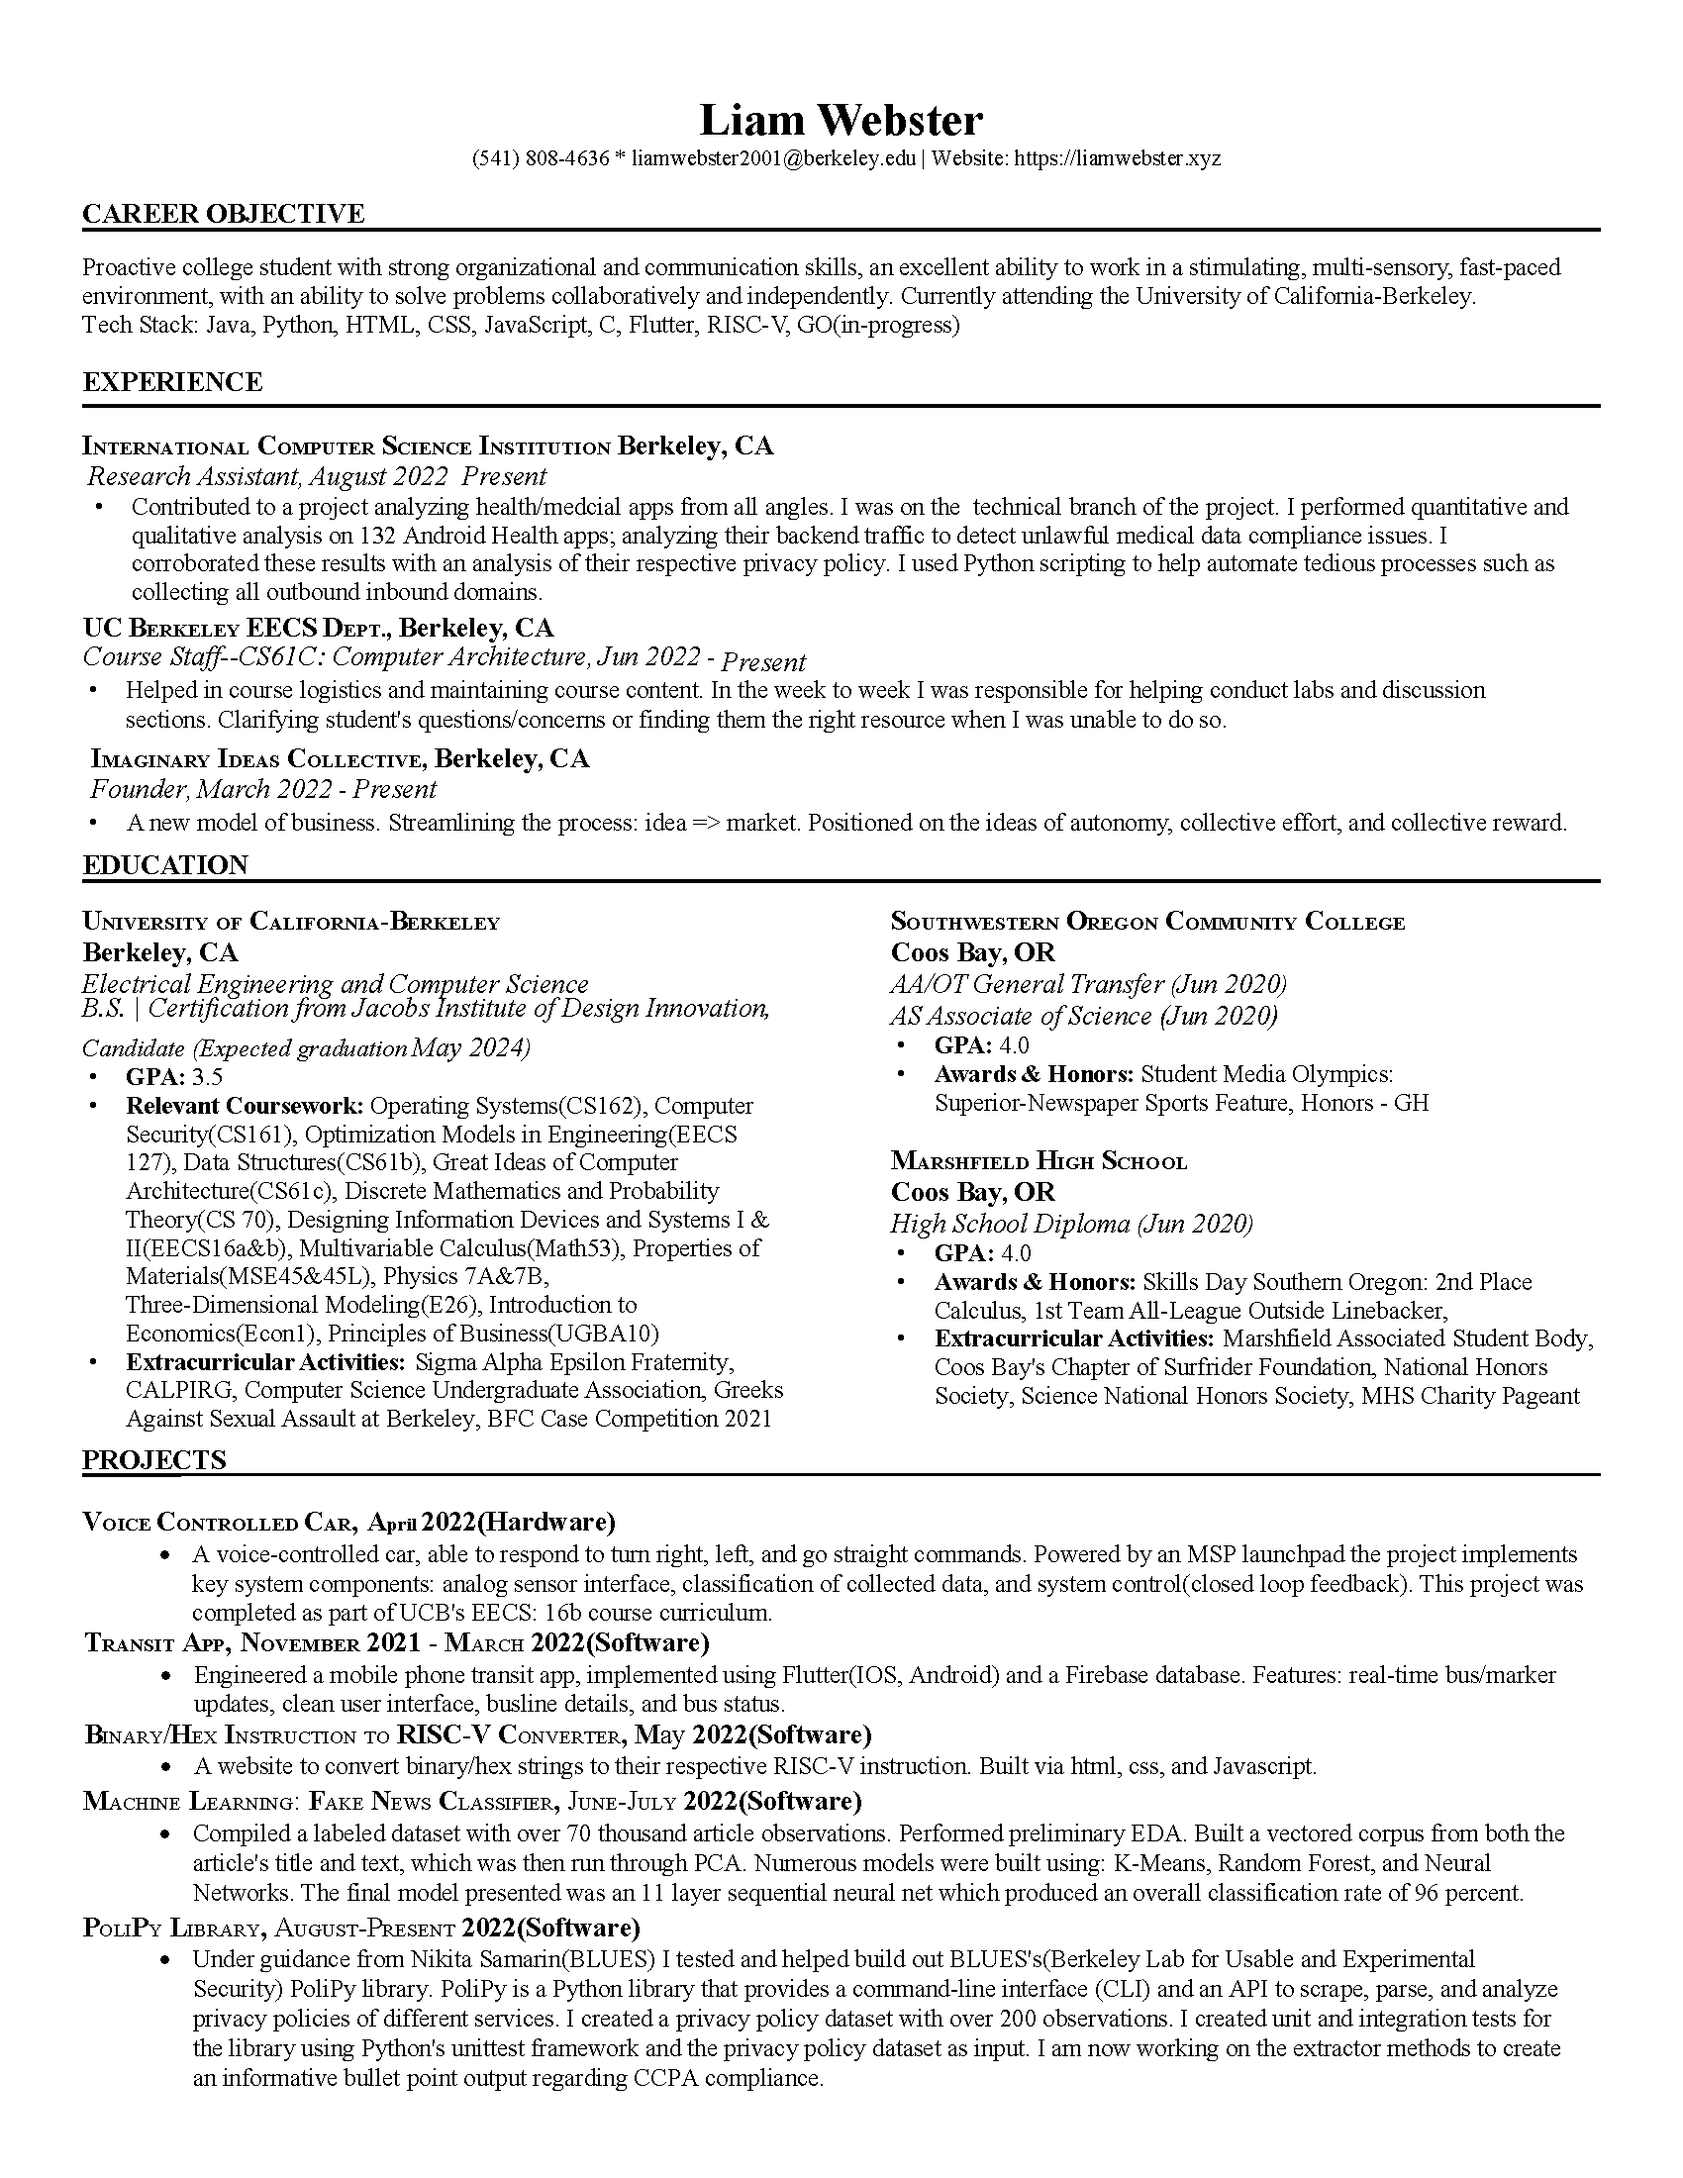
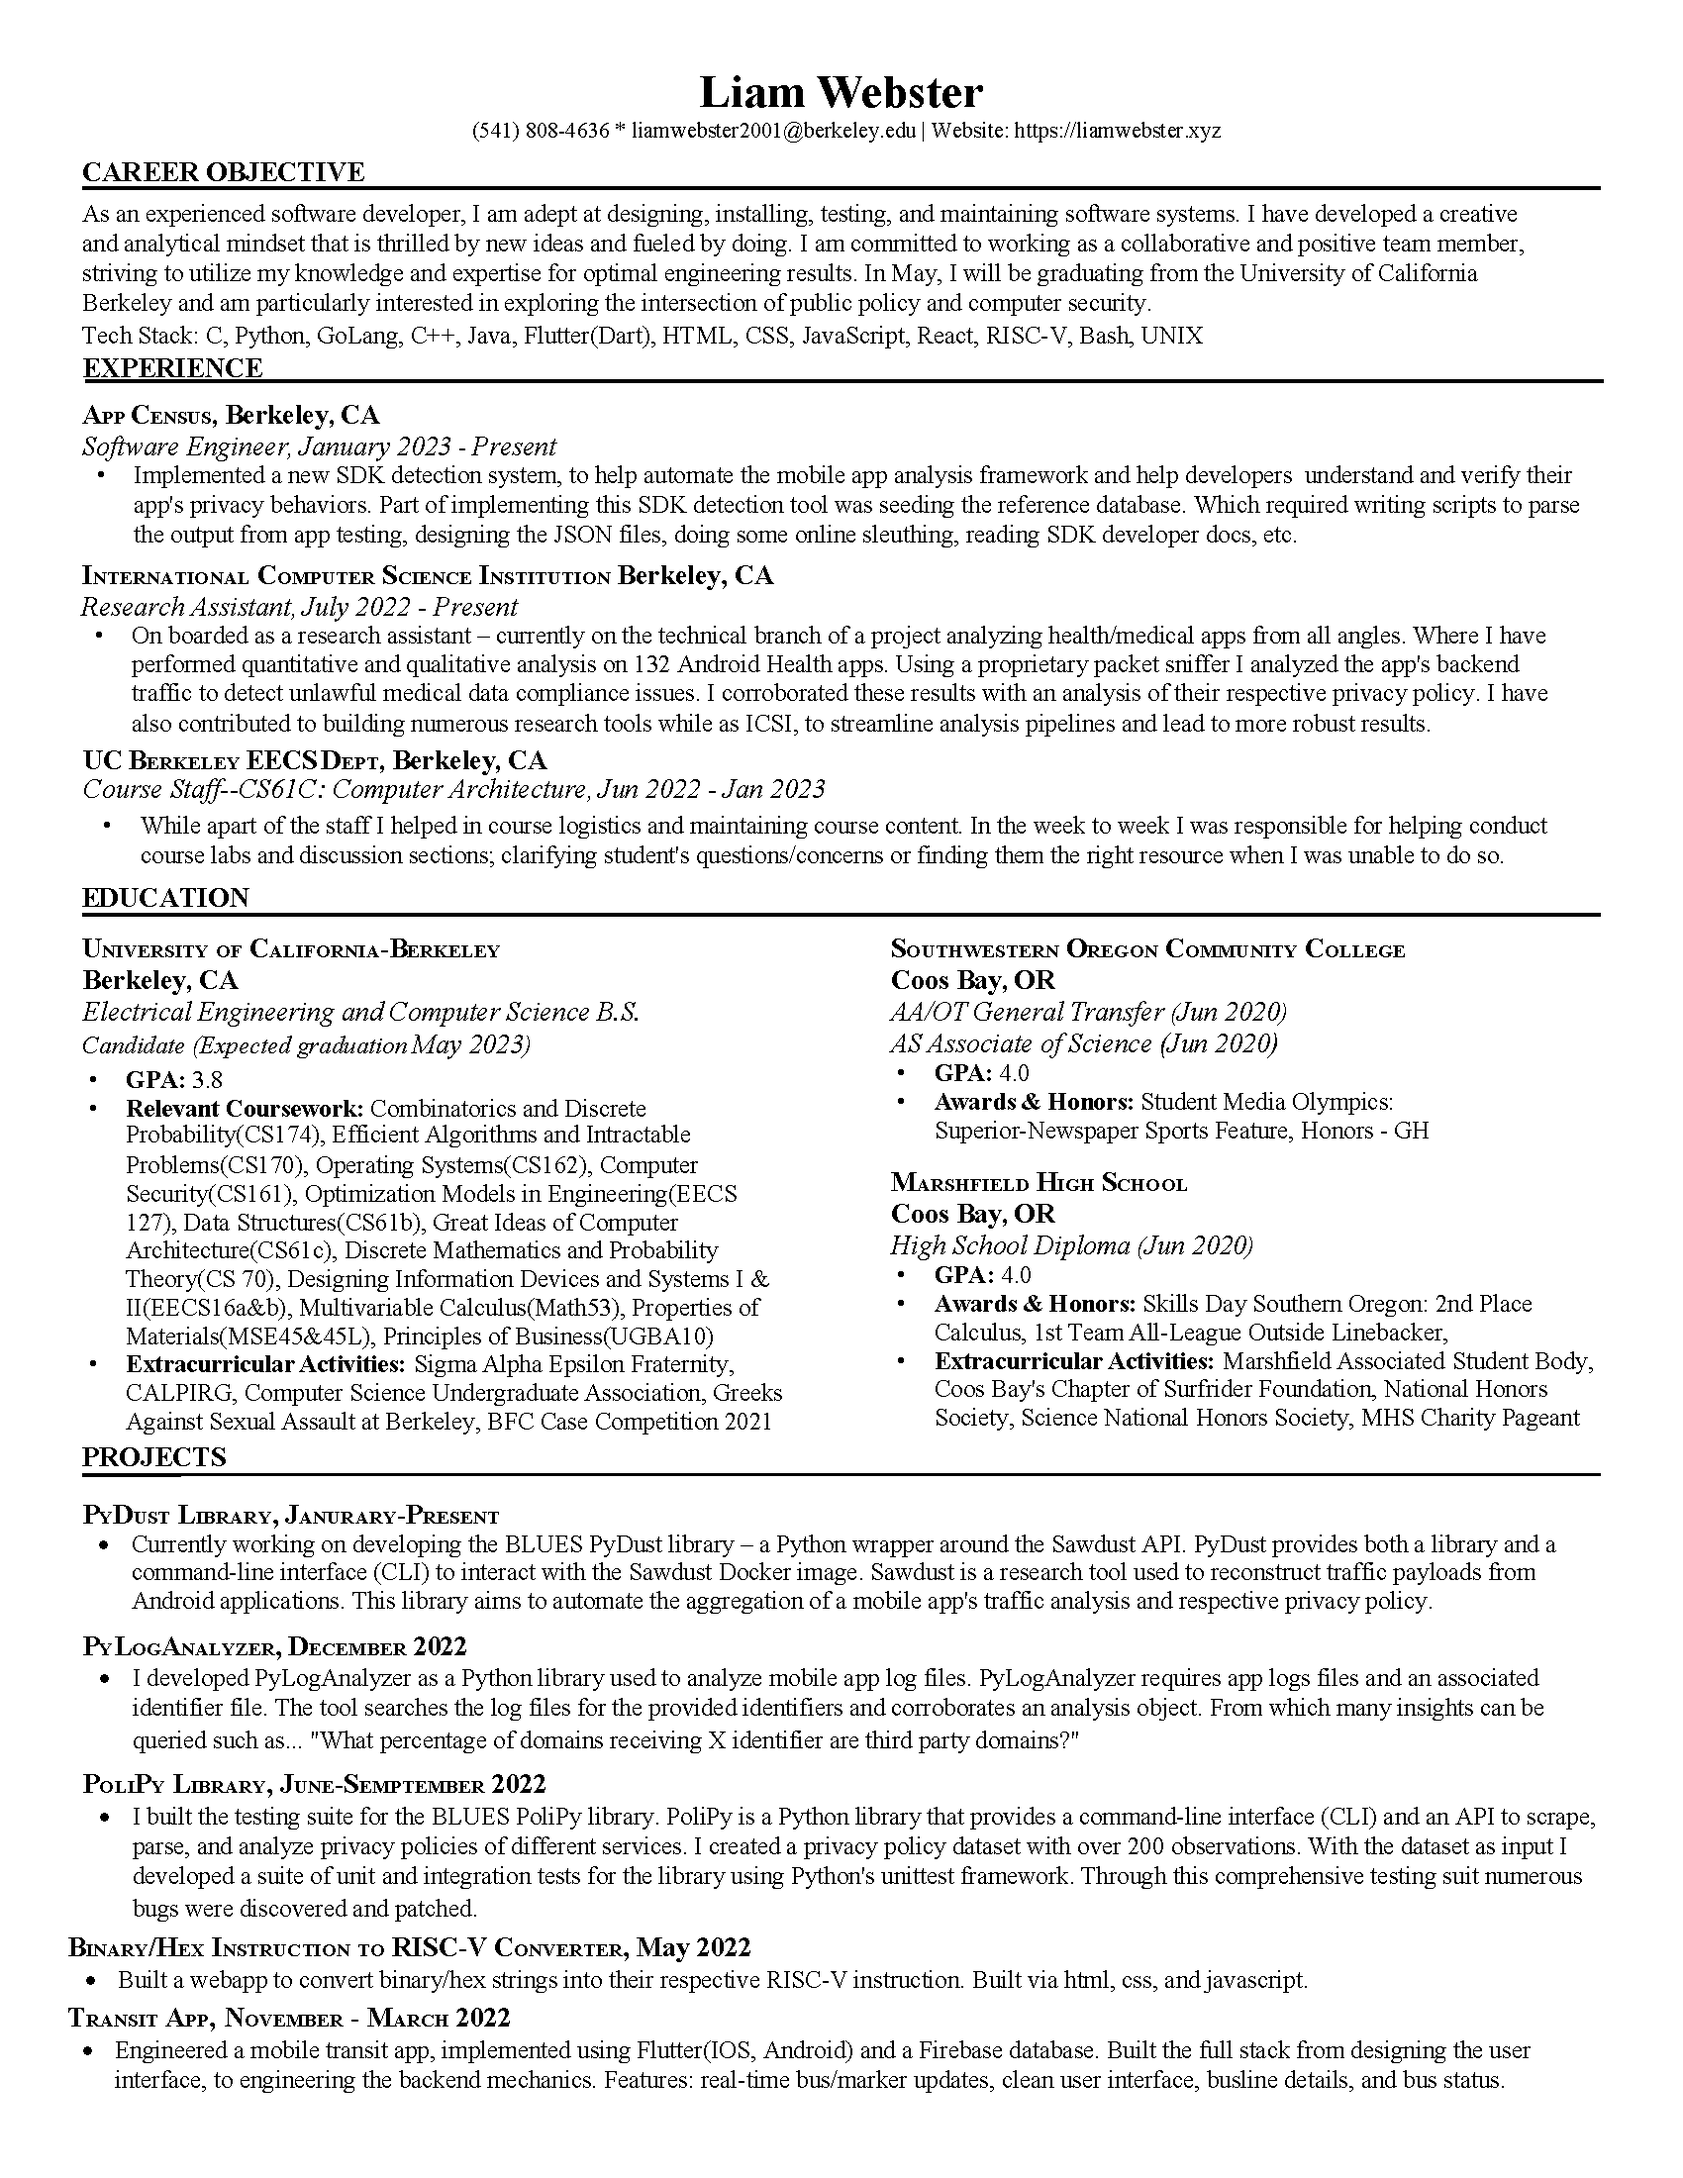
resume update

Changed region(s): [[0.0312, 0.0309, 0.9353, 0.9582]]

diff --git a/index.html b/index.html
@@ -47,7 +47,7 @@
 							<article id="intro">
 								<h2 class="major">Intro</h2>
 								<span class="image main"><img src="images/pic01.jpeg" alt="" /></span>
-								<p>Hi, my name is Liam Webster. I am a proactive college student with excellent organizational and communication skills. A strong ability to work in a stimulating, multi-sensory, fast-paced environment, with an ability to solve problems collaboratively and independently. Currently attending the University of California-Berkeley studying Electrical Engineering and Computer Science. Current pursuits entail machine learning and decentralized computer security.</p>
+								<p>Hi, my name is Liam Webster. I am an experienced software developer – adept at designing, installing, testing, and maintaining software systems. I have developed a creative and analytical mindset that is thrilled by new ideas and fueled by doing. I am committed to working as a collaborative and positive team member, striving to utilize my knowledge and expertise for optimal engineering results. In May, I will be graduating from the University of California Berkeley and am particularly interested in exploring the intersection of public policy and computer security.</p>
 								<p>A little bit more about me. I am from a small town on the Oregon Coast. I’m a young hearted excited individual. I received my high school diploma from Marshfield High School. During that time I also attended Southwestern Oregon Community College and received my Associates of Arts and Associates of Sciences graduating with honors. I am now attending UC Berkeley currently studying Electrical Engineering and Computer Science; with aims to earn certification from the Jacobs Institute of Design in Innovative Design. I enjoy thinking, learning and bringing ideas to life. I am a hobby junky-- some of which include: surfing, backpacking, fly-fishing, coding, and automotive tinkering. I love projects and working with people-- reach out if your looking for an extra set of hands. Thanks for the time. </p>
 							</article>
 
@@ -56,29 +56,42 @@
 								<h2 class="major">Projects</h2>
 								<h3 class="major">Software:</h3>
 								<span class="image main"><img src="images/code2.jpg" alt="" /></span>
-								<p>Version Control System:
-									<br>Date: April 2021
-									<br>Description: Implemented a version control system via Java. Based on Git, with features such as add, commit, branch, checkout, and log all functional.</p>
-								<p>Project Automation:
-									<br>Date: July 2021
-									<br>Description: Engineered a "new project" automation script. Ran from the command line; the script automates the creation of a project. Creating a directory in my local projects folder, creating a README.md, creating a GitHub repository, and pushing an initial commit.</p>
-								<p>Account Manager:
-									<br>Date: May 2021
-									<br>Description: Engineered a password managing solution; using a local PostgreSQL database and a Python user interface. Features: username|email|password|misc categorical storage, and a fully original encryption algorithm based on RSA.</p>
-								<p>Transit App:
-									<br>Date: October 2021
-									<br>Description: Engineered a mobile phone transit app, implemented using flutter(IOS, Android) and a Firebase database. Features: real-time bus/marker updates, clean user interface, busline details, and bus status.
-									<br><a href="https://express.adobe.com/page/hTTb4ddk23nt4/" target="_blank">View Project</a>
+								<p>PyDust Library:
+									<br>Date: Present
+									<br>Description: Currently working on developing the BLUES PyDust library - a Python wrapper around the Sawdust API. PyDust provides both a library and a command-line interface (CLI) to interact with the Sawdust Docker image. Sawdust is a research tool used to reconstruct traffic payloads from Android applications. This library aims to automate the aggregation of a mobile app's traffic analysis and respective privacy policy.
+								</p>
+								<p>PyLogAnalyzer:
+									<br> Date: December 2022
+									<br>Description: I developed PyLogAnalyzer as a Python library used to analyze mobile app log files. PyLogAnalyzer requires app logs files and an associated identifier file. The tool searches the log files for the provided identifiers and corroborates an analysis object. From which many insights can be queried such as... "What percentage of domains receiving X identifier are third party domains?"
+									<br><a href="https://github.com/liamwebsterxyz/PyLogAnalyze" target="_blank">View Project</a>
+								</p>
+								<p>PoliPY:
+									<br>Date: June-September 2022
+									<br>Description: I built the testing suite for the BLUES PoliPy library. PoliPy is a Python library that provides a command-line interface (CLI) and an API to scrape, parse, and analyze privacy policies of different services. I created a privacy policy dataset with over 200 observations. With the dataset as input I developed a suite of unit and integration tests for the library using Python's unittest framework. Through this comprehensive testing suit numerous bugs were discovered and patched.
+									<br><a href="https://github.com/blues-lab/polipy" target="_blank">View Project</a>
+								</p>
+								<p>Fake vs Reals News Application:
+									<br>Date: July 2022
+									<br>Description: Compiled a labeled dataset with over 70 thousand article observations. Performed preliminary EDA. Built a vectored corpus from both the article's title and text, which was then run through PCA. Numerous models were built using: K-Means, Random Forests, and Neural Networks. The final model presented was an 11 layer sequential neural net which produced an overall classification rate of 96 percent.
+									<br><a href="https://express.adobe.com/page/hbMXK4IUUn4Bd/" target="_blank">View Project</a>
 								</p>
 								<p>RISC-V Instruction to Binary/Hexadecimal Instruction:
 									<br>Date: Feburary 2022
 									<br>Description: Website for converting binary/hex instruction into RISC-V instruction. Implemented via html, css, and Javascript.
 									<br><a href="https://express.adobe.com/page/Y2AmGkvrFcz2l/" target="_blank">View Project</a>
 								</p>
-								<p>Fake vs Reals News Application:
-									<br>Date: July 2022
-									<br>Description: Compiled a labeled dataset with over 70 thousand article observations. Performed preliminary EDA. Built a vectored corpus from both the article's title and text, which was then run through PCA. Numerous models were built using: K-Means, Random Forests, and Neural Networks. The final model presented was an 11 layer sequential neural net which produced an overall classification rate of 96 percent.
-									<br><a href="https://express.adobe.com/page/hbMXK4IUUn4Bd/" target="_blank">View Project</a>
+								<p>ransit App:
+									<br>Date: October 2021
+									<br>Description: Engineered a mobile phone transit app, implemented using flutter(IOS, Android) and a Firebase database. Features: real-time bus/marker updates, clean user interface, busline details, and bus status.
+									<br><a href="https://express.adobe.com/page/hTTb4ddk23nt4/" target="_blank">View Project</a>
+								</p>
+								<p>Account Manager:
+									<br>Date: May 2021
+									<br>Description: Engineered a password managing solution; using a local PostgreSQL database and a Python user interface. Features: username|email|password|misc categorical storage, and a fully original encryption algorithm based on RSA.</p>
+								</p>
+								<p>Version Control System:
+									<br>Date: April 2021
+									<br>Description: Implemented a version control system via Java. Based on Git, with features such as add, commit, branch, checkout, and log all functional.</p>
 								</p>
 								<h3 class="major">Hardware:</h3>
 								<span class="image main"><img src="images/hardware.png" alt="" /></span>
